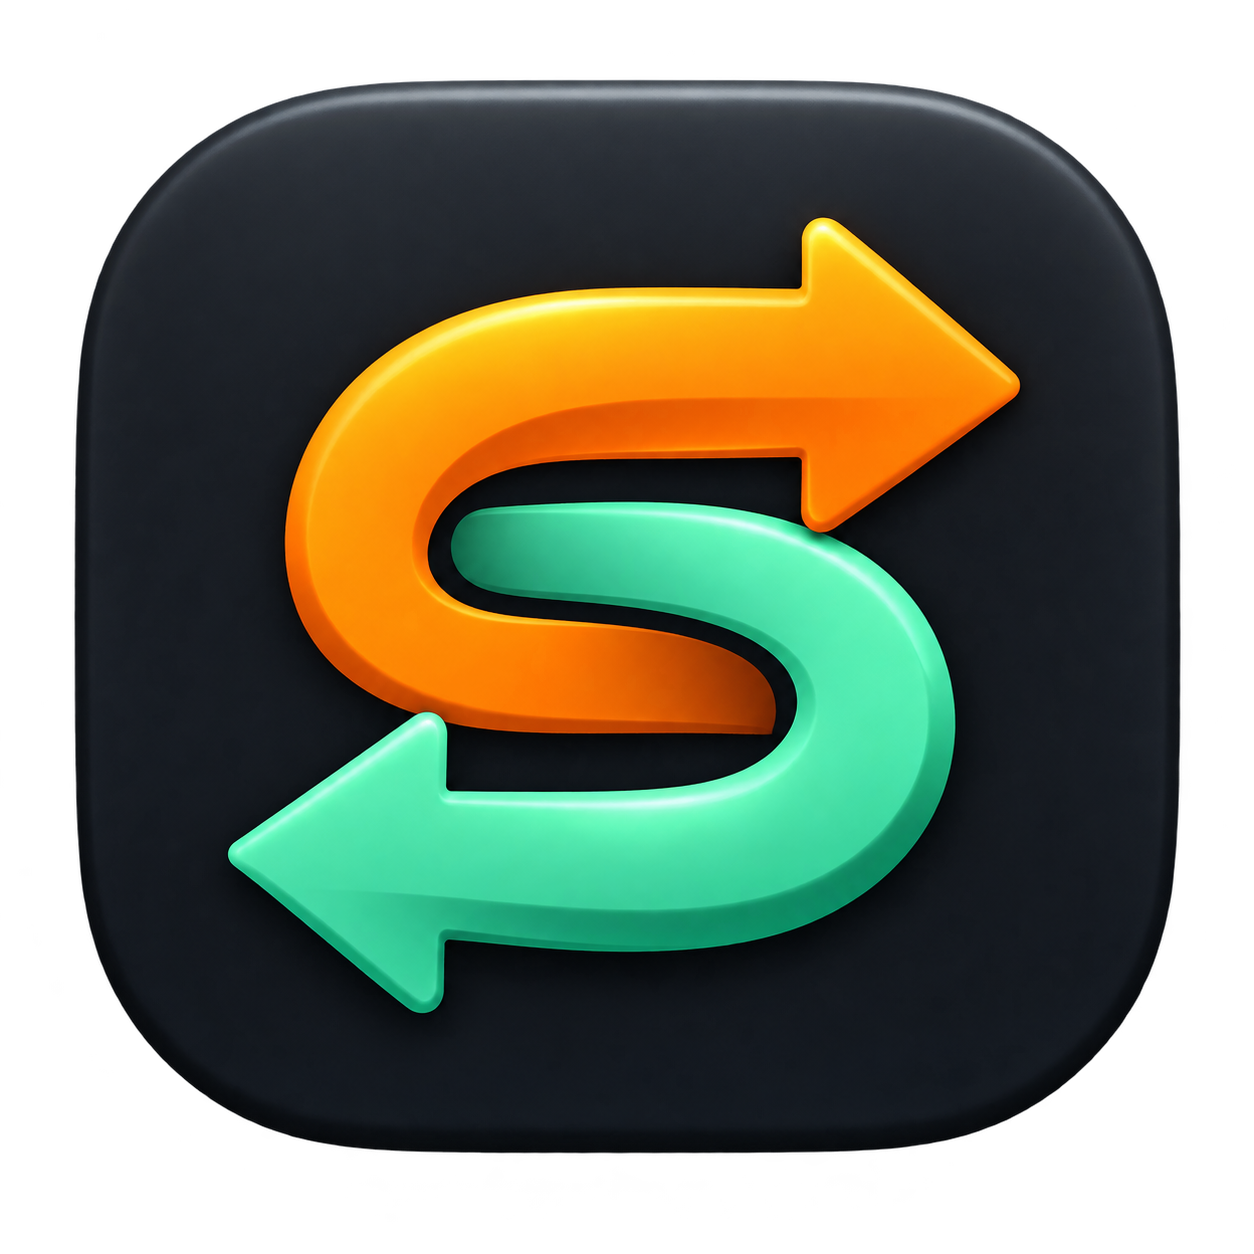
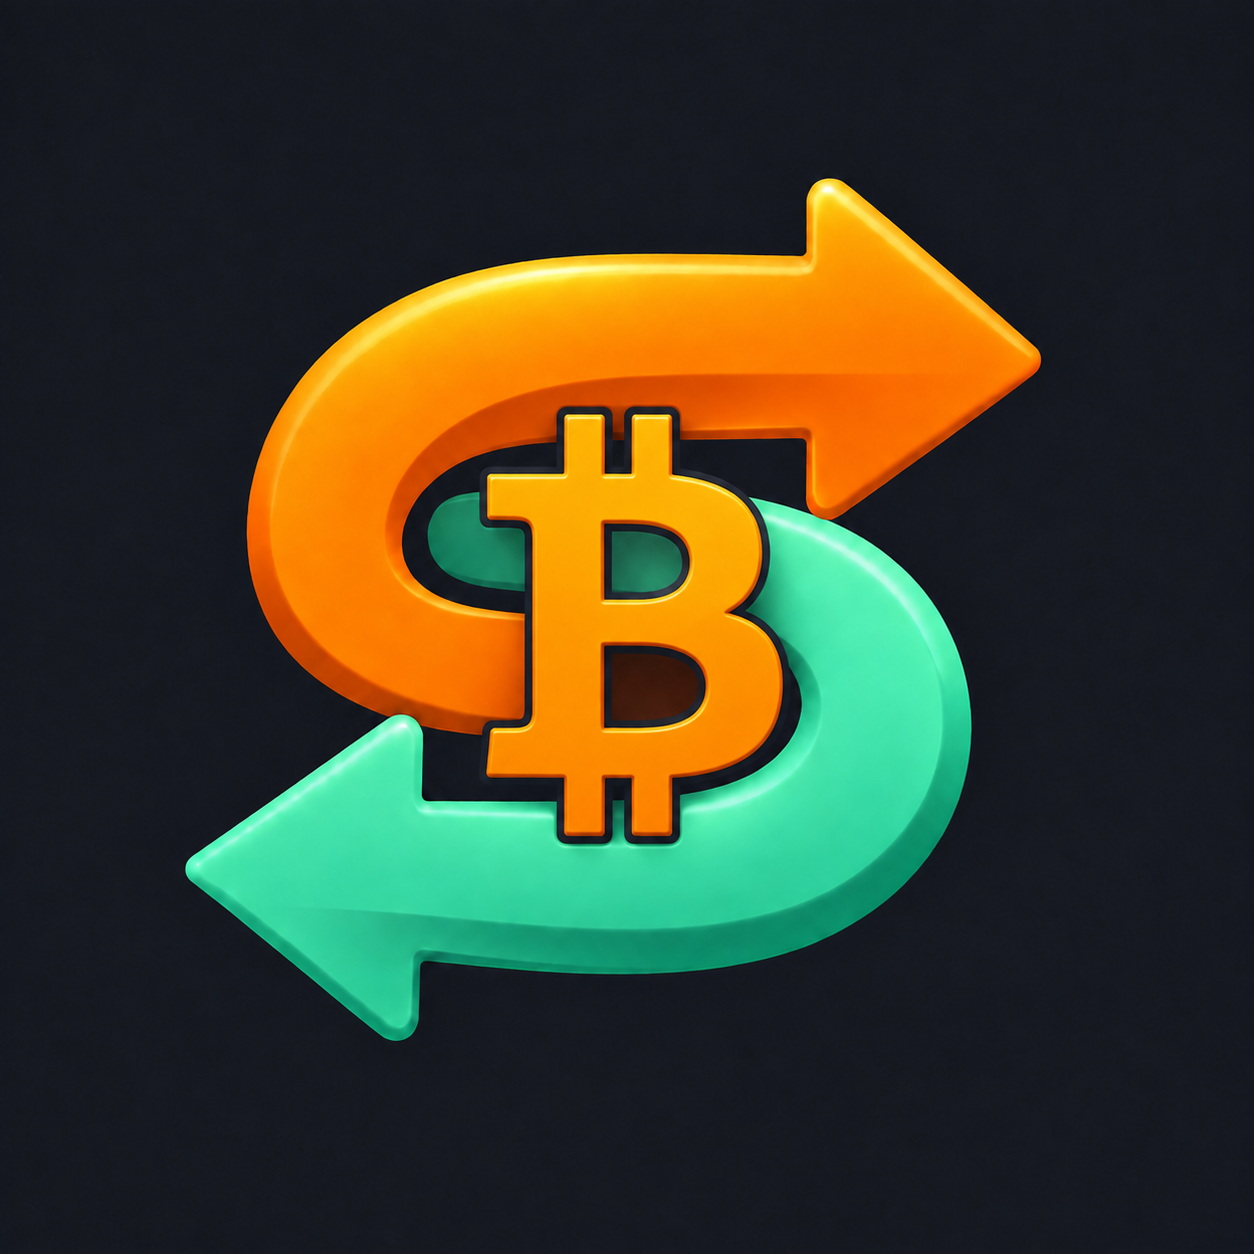
Use full-bleed Bitcoin swap artwork in the app and Dock

diff --git a/macos/Blakeswap/BlakeswapApp.swift b/macos/Blakeswap/BlakeswapApp.swift
@@ -34,6 +34,9 @@ struct BlakeswapApp: App {
 
 private let mint = Color(red: 0.39, green: 0.88, blue: 0.72)
 private let panel = Color(red: 0.10, green: 0.12, blue: 0.15)
+// Share the packaged Dock artwork instead of maintaining a second brand mark.
+private let appIcon = Bundle.main.url(forResource: "AppIcon", withExtension: "icns")
+    .flatMap { NSImage(contentsOf: $0) } ?? NSImage(size: .zero)
 
 private struct MintButton: ButtonStyle {
     func makeBody(configuration: Configuration) -> some View {
@@ -92,7 +95,9 @@ struct ContentView: View {
     private var sidebar: some View {
         VStack(alignment: .leading, spacing: 28) {
             HStack(spacing: 10) {
-                Image(systemName: "arrow.left.arrow.right").font(.title3.bold()).foregroundStyle(.black).frame(width: 34, height: 34).background(mint, in: RoundedRectangle(cornerRadius: 10))
+                Image(nsImage: appIcon).resizable().interpolation(.high).scaledToFit()
+                    .frame(width: 34, height: 34).clipShape(RoundedRectangle(cornerRadius: 8))
+                    .accessibilityHidden(true)
                 Text("blakeswap").font(.system(size: 22, weight: .semibold, design: .rounded)).lineLimit(1).fixedSize()
             }.padding(.top, 14)
             VStack(alignment: .leading, spacing: 9) {

diff --git a/macos/Assets/README.md b/macos/Assets/README.md
@@ -1,8 +1,10 @@
 # Blakeswap app icon
 
-`AppIcon.png` is the original artwork generated with the built-in imagegen tool on September 5, 2026. The macOS build packages this image into `AppIcon.icns` at standard 1× and 2× resolutions using Apple's tools. The source PNG's transparency is preserved.
+`AppIcon.png` was generated and edited with the built-in imagegen tool on September 5, 2026. The final artwork overlays an orange Bitcoin glyph on the swap arrows, on a full-bleed opaque charcoal background. It has no inset tile, transparent padding, or gray rim. macOS applies its icon mask; the app header uses the same packaged `AppIcon.icns` with a small rounded clip. The macOS build generates standard 1× and 2× resolutions using Apple's tools.
 
-## Generation prompt
+The full-bleed background follows [Apple's app icon guidance](https://developer.apple.com/design/human-interface-guidelines/app-icons/). The original prompt below is retained for provenance; the two subsequent edits replace its inset background and add the Bitcoin overlay.
+
+## Original generation prompt
 
 ```text
 Use case: logo-brand
@@ -14,4 +16,25 @@ Style/medium: Crisp precision graphic rendered as a polished raster asset. Subtl
 Color palette: Existing Blakeswap UI colors: charcoal #161B22, mint #63E0B8, warm Bitcoin orange #F7931A.
 Composition/framing: Straight-on, symmetrical visual balance, one centered icon on a square 1024×1024 canvas; icon silhouette fully visible. Mark occupies roughly two-thirds of the tile. No tilted perspective.
 Constraints: No text, letters, numbers, currency glyphs, coins, chains of links, charts, extra symbols, borders, watermark, scenery, mockup devices, or decorative flourishes. Preserve real alpha transparency outside the rounded-square tile. Output exactly one icon.
+```
+
+## Full-bleed edit prompt
+
+```text
+Use case: precise-object-edit
+Asset type: Blakeswap macOS app icon and native app header artwork.
+Input image: edit target, the current orange and mint interlocking S-shaped two-arrow icon.
+Primary request: Correct ONLY the icon framing and background. Preserve the existing arrow symbol exactly: same orange upper arrow pointing right, mint lower arrow pointing left, same shape, proportions, satin depth, lighting and colors. Keep the symbol large and centered.
+Background: Replace the inset rounded dark tile and its gray beveled rim with a seamless flat charcoal #161B22 background covering the entire square canvas from edge to edge. FULL-BLEED OPAQUE SQUARE. Every corner and every edge must be solid charcoal with no transparent pixels. macOS itself will apply the outer rounded mask.
+Constraints: No border, no gray rim, no outer shadow, no rounded square drawn inside the image, no transparent padding, no inset plate or frame. Keep the original symbol design unchanged. No text, extra symbols, presentation or mockup. Output one square production artwork image.
+```
+
+## Bitcoin overlay edit prompt
+
+```text
+Use case: precise-object-edit
+Asset type: final Blakeswap app icon for macOS and app header.
+Input image: edit target, the current full-bleed charcoal square with orange upper arrow and mint lower arrow interlocking into an S.
+Primary request: Add the orange Bitcoin B symbol, exactly the recognizable Bitcoin currency glyph ₿ with its two vertical strokes, overlaid prominently on top of the center of the swap-arrow symbol. Make this Bitcoin glyph warm vivid Bitcoin orange (#F7931A), clearly legible over both arrows with a slim dark-charcoal outline/shadow for separation. The Bitcoin glyph is upright and about 34% of the canvas height. It sits in the foreground over the intersection of the two arrows. No circular coin or badge behind the glyph.
+Preserve the existing swap arrows, directions, arrangement, colors, satin depth, large scale and centered framing. Keep the full-bleed opaque charcoal background extending completely to every edge and corner. No rounded inset tile, gray border, transparent padding, rim, extra symbols, other text or mockup. Only add the Bitcoin glyph overlay. Output one square production icon image.
 ```
